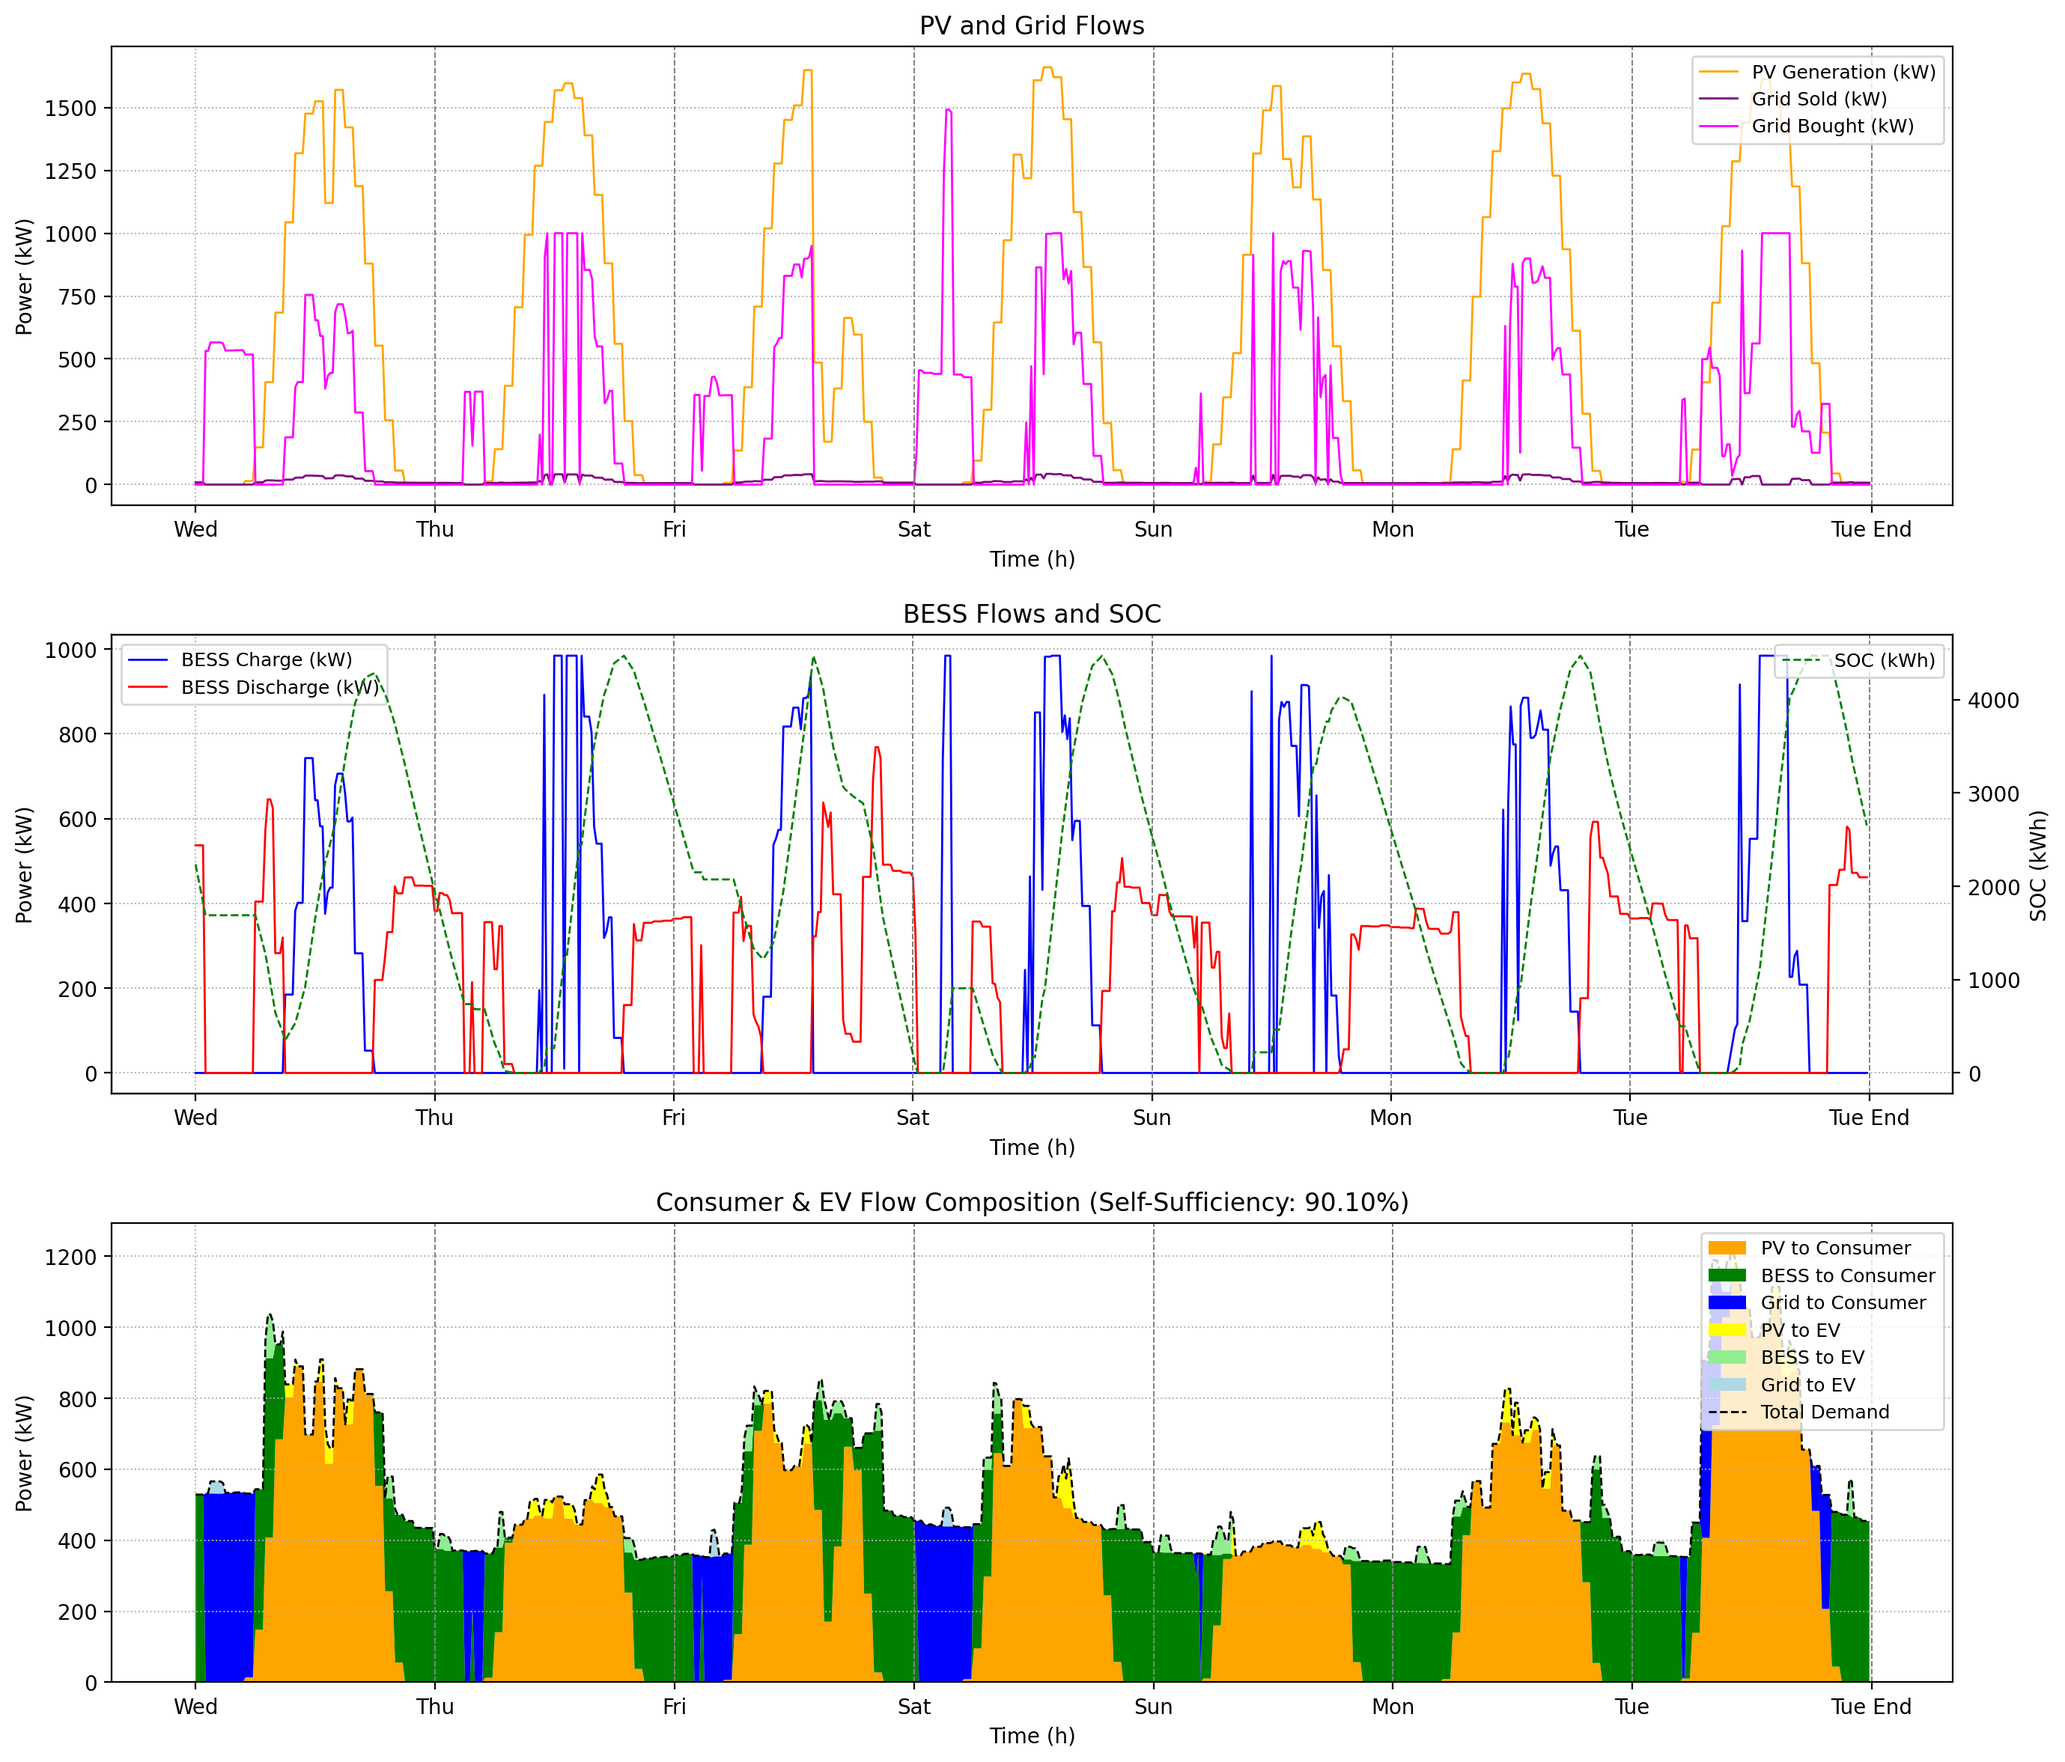
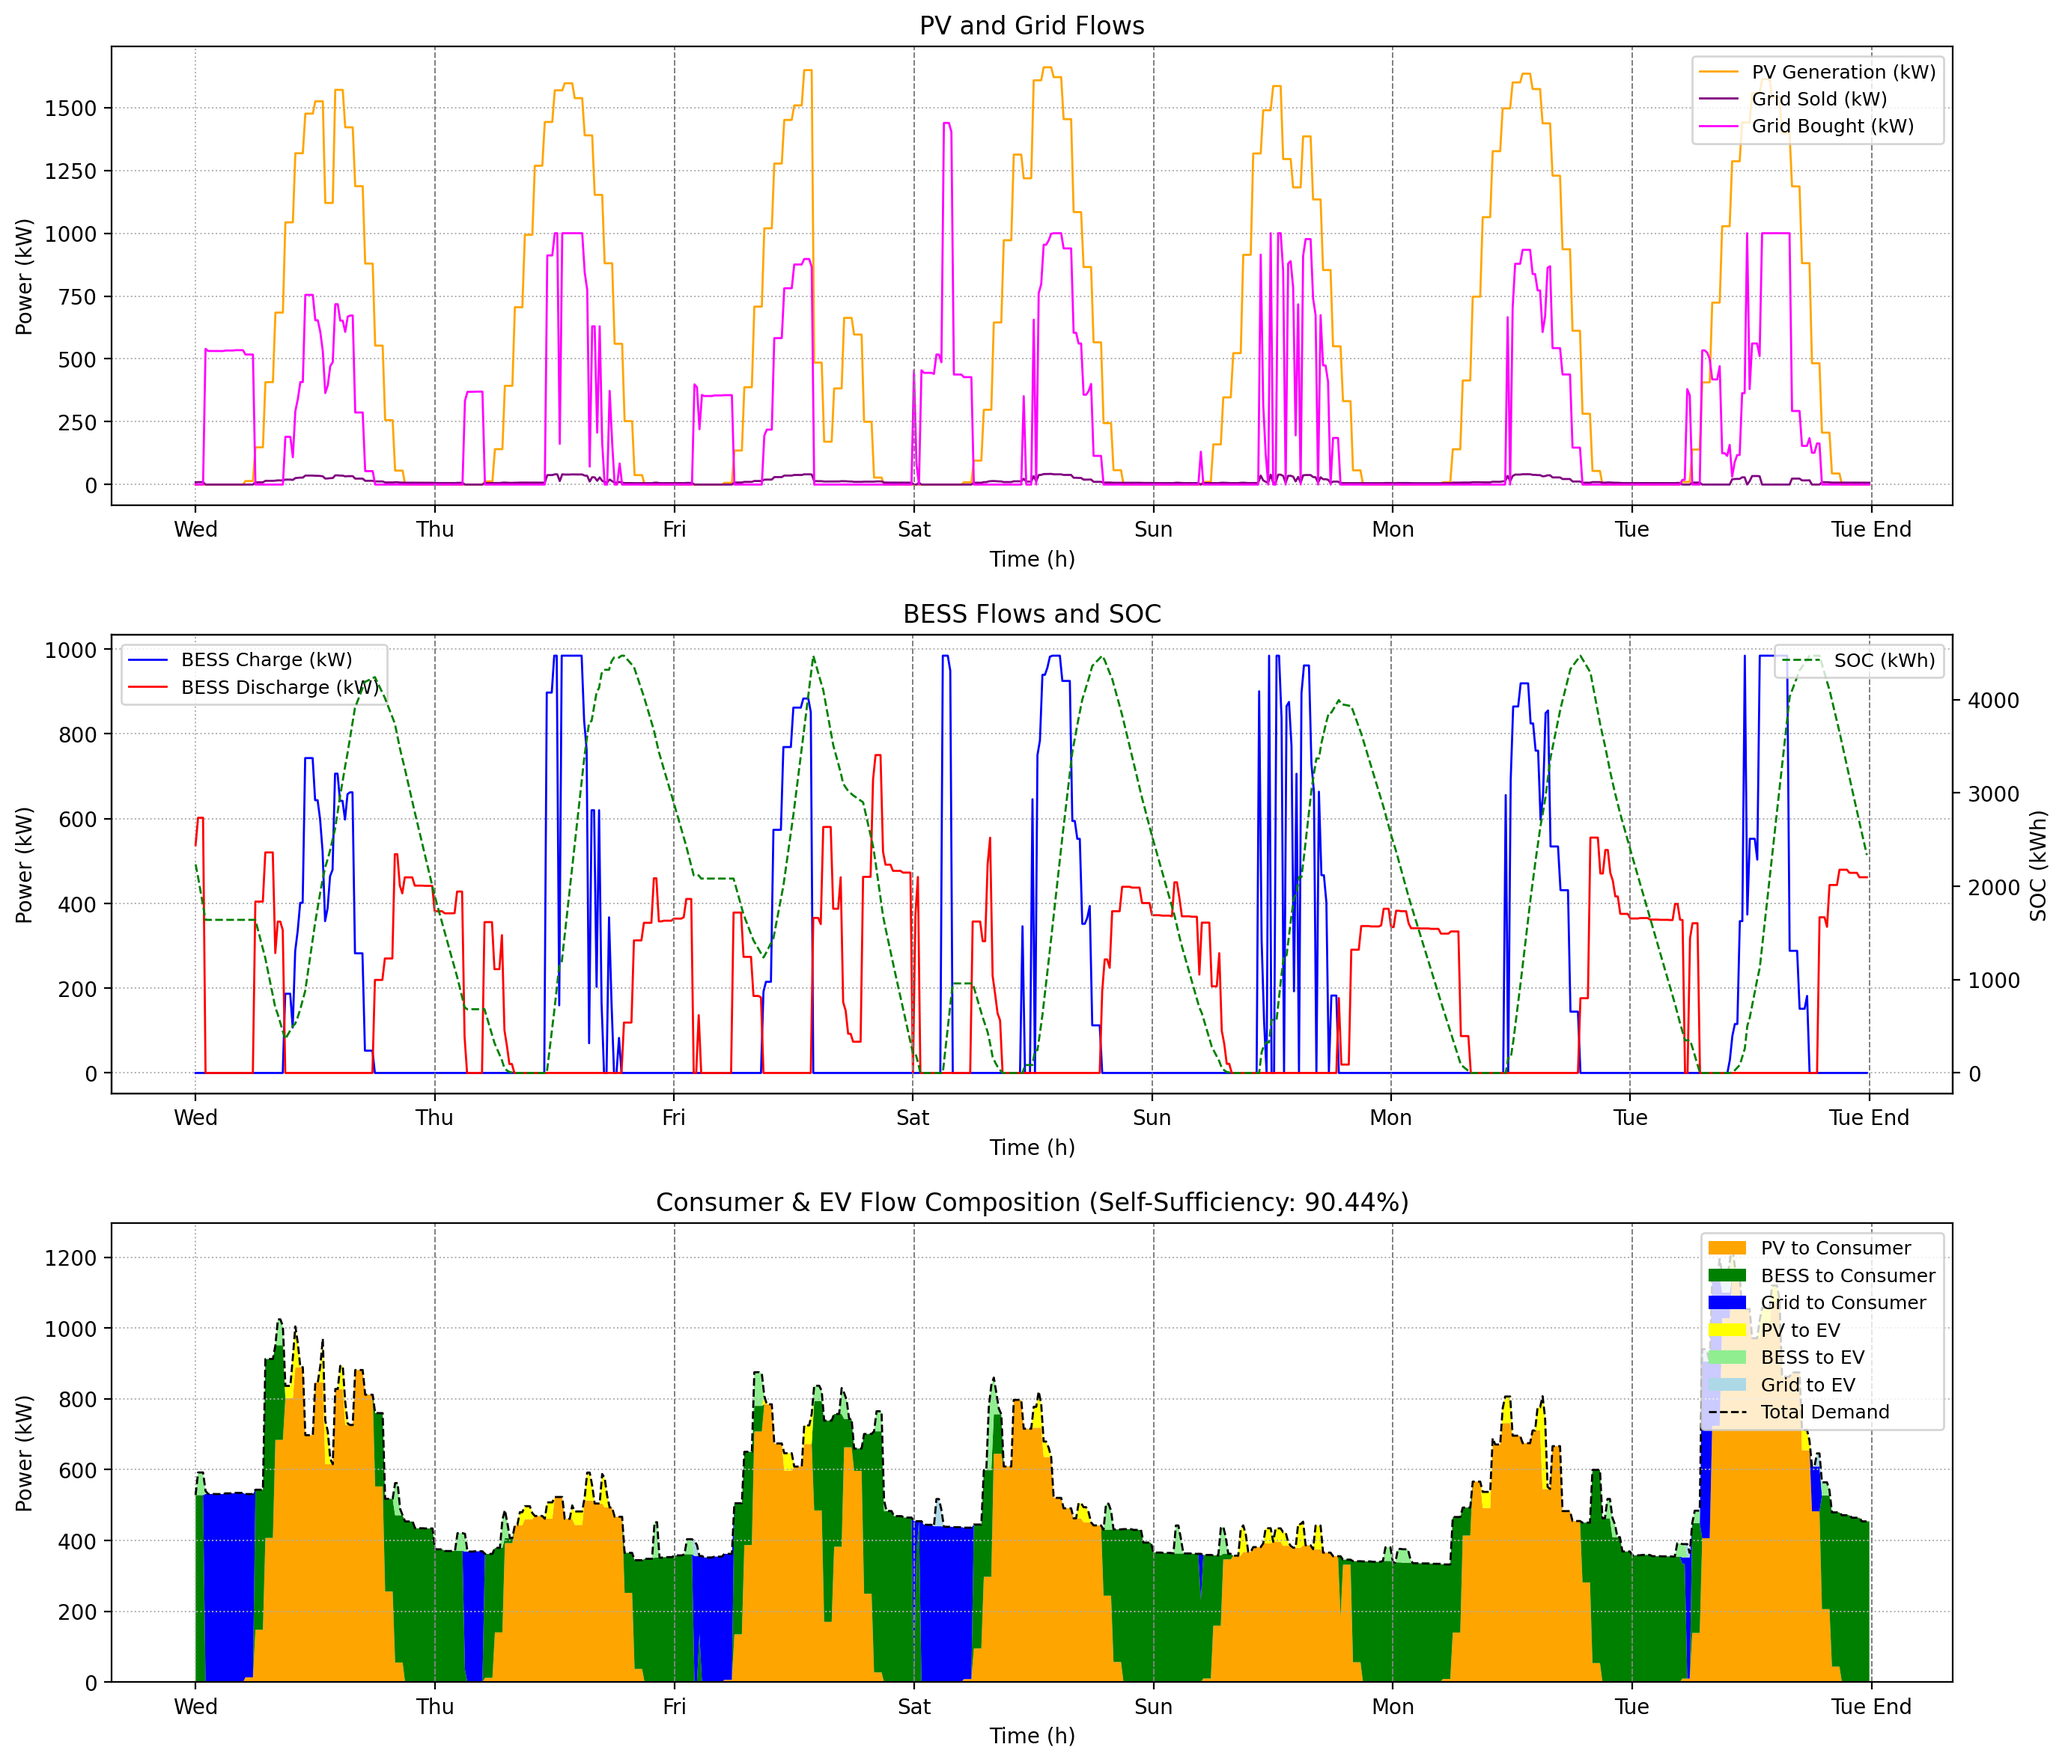
MPC working on

diff --git a/Computing Files/Controller/mpc.py b/Computing Files/Controller/mpc.py
@@ -30,65 +30,105 @@ class MPC:
         # Damper coefficient (€/kW-change) for smoothing power transitions (from constants; default 0.001 if missing)
         self.damper_coefficient = params.get('DAMPER_COEFFICIENT')
 
+        # Reusable network handle (lazy-initialized on first predict)
+        self._n = None
+        # Cache current nominal limits for quick updates
+        self._pv_nom = None
+        self._grid_imp_nom = None
+        self._grid_exp_nom = None
+
+    def _ensure_network(self, pv_nom, max_grid_import, max_grid_export):
+        # Create or update a reusable PyPSA network with fixed topology
+        if self._n is None:
+            n = pypsa.Network()
+            # Minimal snapshot to initialize; will be reset per predict()
+            n.set_snapshots(pd.date_range("2000-01-01", periods=1, freq=f"{int(self.delta_t*60)}min"))
+
+            n.snapshot_weightings.objective = self.delta_t
+            n.snapshot_weightings.generators = self.delta_t
+            n.snapshot_weightings.stores = self.delta_t
+
+            # Carriers
+            if "AC" not in getattr(n, "carriers", pd.DataFrame(index=[])).index:
+                n.add("Carrier", "AC")
+            if "DC" not in getattr(n, "carriers", pd.DataFrame(index=[])).index:
+                n.add("Carrier", "DC")
+
+            # Buses
+            n.add("Bus", "AC", carrier='AC')
+            n.add("Bus", "PV", carrier='DC')
+            n.add("Bus", "Grid", carrier='AC')
+            n.add("Bus", "BESS", carrier='DC')
+
+            # PV
+            n.add("Generator", "PV", bus="PV", p_nom=max(1.0, pv_nom), marginal_cost=0)
+
+            # BESS
+            if self.bess_power_limit > 0 and self.bess_capacity > 0:
+                n.add("StorageUnit", "BESS", bus="BESS",
+                      p_nom=self.bess_power_limit,
+                      max_hours=self.bess_capacity/self.bess_power_limit,
+                      efficiency_store=self.eta_charge,
+                      efficiency_dispatch=self.eta_discharge,
+                      marginal_cost=0,
+                      state_of_charge_initial=self.soc_initial)
+
+            # Links
+            n.add("Link", "AC_to_BESS", bus0="AC", bus1="BESS", p_nom=self.bess_power_limit, efficiency=self.eta_charge, marginal_cost=0, carrier='AC')
+            n.add("Link", "BESS_to_AC", bus0="BESS", bus1="AC", p_nom=self.bess_power_limit, efficiency=self.eta_discharge, marginal_cost=0, carrier='AC')
+            n.add("Link", "PV_to_AC", bus0="PV", bus1="AC", p_nom=max(1.0, pv_nom), efficiency=self.converter_efficiency, marginal_cost=0, carrier='AC')
+
+            # Grid IO
+            n.add("Link", "Grid_Import", bus0="Grid", bus1="AC", p_nom=max_grid_import, efficiency=1.0, marginal_cost=0, carrier='AC')
+            n.add("Link", "Grid_Export", bus0="AC", bus1="Grid", p_nom=max_grid_export, efficiency=1.0, marginal_cost=0, carrier='AC')
+
+            # Grid source and loads
+            n.add("Generator", "Grid_Source", bus="Grid", p_nom=1e9, marginal_cost=0)
+            n.add("Load", "Consumer", bus="AC", p_set=0, marginal_cost=0)
+            n.add("Load", "EV", bus="AC", p_set=0, marginal_cost=0)
+
+            self._n = n
+        else:
+            n = self._n
+            # Update p_nom where needed to avoid recreating components
+            if pv_nom != self._pv_nom:
+                n.generators.at["PV", "p_nom"] = max(1.0, pv_nom)
+                n.links.at["PV_to_AC", "p_nom"] = max(1.0, pv_nom)
+            if max_grid_import != self._grid_imp_nom:
+                n.links.at["Grid_Import", "p_nom"] = max_grid_import
+            if max_grid_export != self._grid_exp_nom:
+                n.links.at["Grid_Export", "p_nom"] = max_grid_export
+
+        # Update cached values
+        self._pv_nom = pv_nom
+        self._grid_imp_nom = max_grid_import
+        self._grid_exp_nom = max_grid_export
+        return self._n
+
 
     def predict(self, soc, pv_forecast, demand_forecast, ev_forecast, buy_forecast, sell_forecast, lcoe_pv, pi_ev, pi_consumer, horizon, start_dt):
         # Use actual simulation start date for snapshots
         snapshots = pd.date_range(start_dt, periods=horizon, freq=f'{int(self.delta_t*60)}min')
-        n = pypsa.Network()
-        n.set_snapshots(snapshots)
 
+        # Compute nominal values for this horizon
+        pv_nom = float(np.max(pv_forecast)) if np.max(pv_forecast) > 0 else 1.0
+        max_grid_import = float(np.max(demand_forecast) + np.max(ev_forecast) + self.bess_power_limit)
+        max_grid_export = float(np.max(pv_forecast) + self.bess_power_limit)
+        if max_grid_import < float(np.max(demand_forecast) + np.max(ev_forecast)):
+            max_grid_import = float(np.max(demand_forecast) + np.max(ev_forecast) + 100)
+
+        # Ensure/reuse network and update p_nom as needed
+        n = self._ensure_network(pv_nom, max_grid_import, max_grid_export)
+
+        # Reset snapshots and weights for this horizon
+        n.set_snapshots(snapshots)
         n.snapshot_weightings.objective = self.delta_t
         n.snapshot_weightings.generators = self.delta_t
         n.snapshot_weightings.stores = self.delta_t
 
-        # Define carriers explicitly to avoid warnings and for clarity
-        if "AC" not in getattr(n, "carriers", pd.DataFrame(index=[])).index:
-            n.add("Carrier", "AC")
-        if "DC" not in getattr(n, "carriers", pd.DataFrame(index=[])).index:
-            n.add("Carrier", "DC")
-
-        # Add buses (AC grid side; DC side split by PV and BESS buses)
-        n.add("Bus", "AC", carrier='AC')
-        n.add("Bus", "PV", carrier='DC')
-        n.add("Bus", "Grid", carrier='AC')
-        n.add("Bus", "BESS", carrier='DC')
-
-        # PV generator (PV bus) - allow curtailment via p_max_pu, prioritize by zero marginal cost
-        pv_nom = np.max(pv_forecast)
-        if pv_nom == 0:
-            pv_nom = 1
-        n.add("Generator", "PV", bus="PV", p_nom=pv_nom, marginal_cost=0)
-        n.generators_t.p_max_pu.loc[:, "PV"] = pd.Series(np.array(pv_forecast) / pv_nom, index=n.snapshots)
-
-        # BESS StorageUnit (BESS bus)
-        if self.bess_power_limit > 0 and self.bess_capacity > 0:
-            n.add("StorageUnit", "BESS", bus="BESS",
-                  p_nom=self.bess_power_limit,
-                  max_hours=self.bess_capacity/self.bess_power_limit,
-                  efficiency_store=self.eta_charge,
-                  efficiency_dispatch=self.eta_discharge,
-                  marginal_cost=0,
-                  state_of_charge_initial=soc)
-
-        # Links between buses
-        n.add("Link", "AC_to_BESS", bus0="AC", bus1="BESS", p_nom=self.bess_power_limit, efficiency=self.eta_charge, marginal_cost=0, carrier='AC')
-        n.add("Link", "BESS_to_AC", bus0="BESS", bus1="AC", p_nom=self.bess_power_limit, efficiency=self.eta_discharge, marginal_cost=0, carrier='AC')
-        n.add("Link", "PV_to_AC", bus0="PV", bus1="AC", p_nom=pv_nom, efficiency=self.converter_efficiency, marginal_cost=0, carrier='AC')
-
-        # Grid import/export as Links
-        max_grid_import = np.max(demand_forecast) + np.max(ev_forecast) + self.bess_power_limit
-        max_grid_export = np.max(pv_forecast) + self.bess_power_limit
-        # Ensure grid import capacity is sufficient even when PV is zero
-        if max_grid_import < np.max(demand_forecast) + np.max(ev_forecast):
-            max_grid_import = np.max(demand_forecast) + np.max(ev_forecast) + 100  # Add buffer
-        # Grid import/export links
-        n.add("Link", "Grid_Import", bus0="Grid", bus1="AC", p_nom=max_grid_import, efficiency=1.0, marginal_cost=0, carrier='AC')
-        n.add("Link", "Grid_Export", bus0="AC", bus1="Grid", p_nom=max_grid_export, efficiency=1.0, marginal_cost=0, carrier='AC')
-        # Selling to grid yields revenue (negative cost)
+        # Time-series updates
+        n.generators_t.p_max_pu.loc[:, "PV"] = pd.Series(np.array(pv_forecast) / max(1.0, pv_nom), index=n.snapshots)
         n.links_t.marginal_cost["Grid_Export"] = -pd.Series(sell_forecast, index=n.snapshots)
-
-        # Grid source generator (buy from grid at buy_forecast)
-        n.add("Generator", "Grid_Source", bus="Grid", p_nom=1e9, marginal_cost=0)
         n.generators_t.marginal_cost["Grid_Source"] = pd.Series(buy_forecast, index=n.snapshots)
 
         # --- DEBUG: Print key marginal costs and link parameters ---
@@ -105,11 +145,13 @@ class MPC:
         except Exception as e:
             print(f"DEBUG print error: {e}")
 
-        # Loads: keep Consumer and EV on AC side (EV chargers are typically AC-coupled externally)
-        n.add("Load", "Consumer", bus="AC", p_set=0, marginal_cost=0)
-        n.add("Load", "EV", bus="AC", p_set=0, marginal_cost=0)
+        # Loads: update time series
         n.loads_t.p_set.loc[:, "Consumer"] = demand_forecast
         n.loads_t.p_set.loc[:, "EV"] = ev_forecast
+
+        # Update initial SOC for this window
+        if "BESS" in n.storage_units.index:
+            n.storage_units.at["BESS", "state_of_charge_initial"] = soc
 
         # No manual constraints/damping: rely on PyPSA standard LP and costs
 

diff --git a/Computing Files/PostPlot/plots.py b/Computing Files/PostPlot/plots.py
@@ -128,15 +128,17 @@ def plot_financials(revenues, data, save_dir=None):
     plt.plot(data['time_steps'], np.full(data['n_steps'], data['lcoe_pv']), label='PV LCOE (Euro/kWh)', color='orange', linestyle='--', linewidth=1)
     plt.plot(data['time_steps'], np.full(data['n_steps'], data['lcoe_bess']), label='BESS LCOE (Euro/kWh)', color='green', linestyle='--', linewidth=1)
     
-    # Calculate and display arbitrage statistics
+    # Calculate and display arbitrage statistics (BESS-specific Grid↔BESS exchanges)
+    grid_import = bess_grid_import
+    grid_export = bess_grid_export
     buying_periods = grid_import > 1e-6
     selling_periods = grid_export > 1e-6
     total_buying_time = np.sum(buying_periods) * data['delta_t']  # hours
     total_selling_time = np.sum(selling_periods) * data['delta_t']  # hours
-    total_energy_bought = np.sum(grid_import) * data['delta_t']  # kWh
-    total_energy_sold = np.sum(grid_export) * data['delta_t']  # kWh
-    avg_buy_price = float(np.mean(np.array(data['grid_buy_price'])[buying_periods])) if np.any(buying_periods) else 0
-    avg_sell_price = float(np.mean(np.array(data['grid_sell_price'])[selling_periods])) if np.any(selling_periods) else 0
+    total_energy_bought = float(np.sum(grid_import) * data['delta_t'])  # kWh
+    total_energy_sold = float(np.sum(grid_export) * data['delta_t'])  # kWh
+    avg_buy_price = float(np.mean(np.array(data['grid_buy_price'])[buying_periods])) if np.any(buying_periods) else 0.0
+    avg_sell_price = float(np.mean(np.array(data['grid_sell_price'])[selling_periods])) if np.any(selling_periods) else 0.0
     
     plt.xlabel('Time (h)')
     plt.ylabel('Price (Euro/kWh)')
